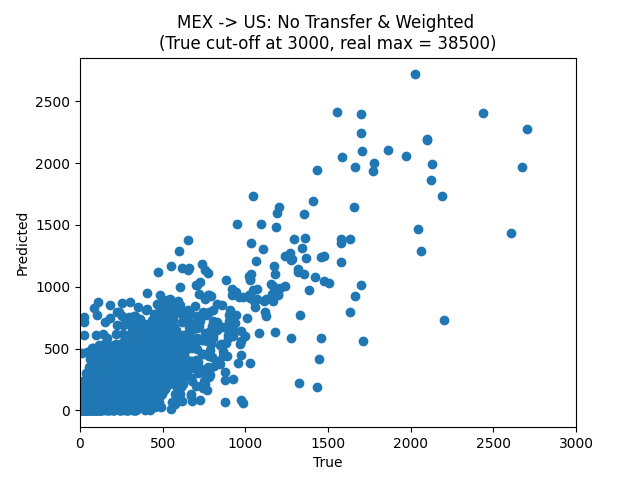
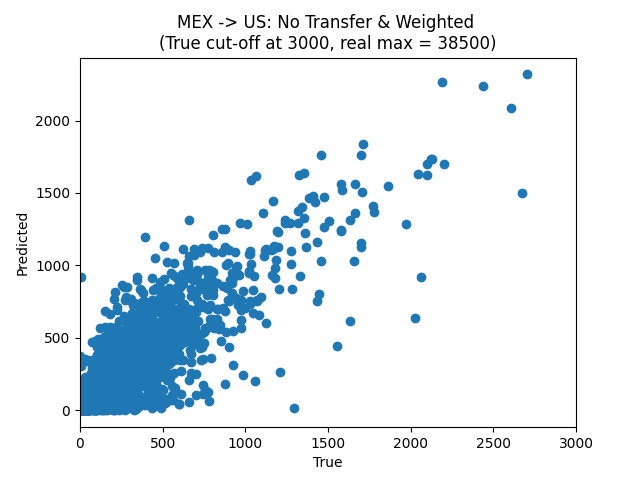
model result udpates

diff --git a/true_v_pred_plots.py b/true_v_pred_plots.py
@@ -33,7 +33,7 @@ plt.savefig("./model_plots/t_w.png")
 plt.clf()
 
 ## MEX -> US: No Transfer & Weighted
-nt_w = pd.read_csv("./new_predictions/notransfer_25epoch_weightedloss_us_preds.csv")
+nt_w = pd.read_csv("./new_predictions/notransfer_50epoch_weightedloss_us_preds.csv")
 plt.scatter(nt_w['true'], nt_w['pred'])
 # correlation_matrix = np.corrcoef(nt_nw['true'], nt_nw['pred'])
 # correlation_xy = correlation_matrix[0,1]

diff --git a/README.md b/README.md
@@ -8,7 +8,7 @@
 | Transfer |  Loss Function	|     MAE	  |      r2       |	 Quantity Error	 |  Allocation Error  |
 |----------|----------------|-------------|---------------|------------------|--------------------|
 |   No	   |     Normal	    | 206.9039011 |	0.1518472024  |	  142023.9463	 |    340269.0472     |
-|   No	   |    Weighted	| 137.0349846 |	0.6550720991  |	  48718.29571	 |    319428.5491     |
+|   No	   |    Weighted	| 127.3214092 |	0.6911772378  |	  13668.5718	 |    283117.6331     |
 
 
 ### Model Plots
